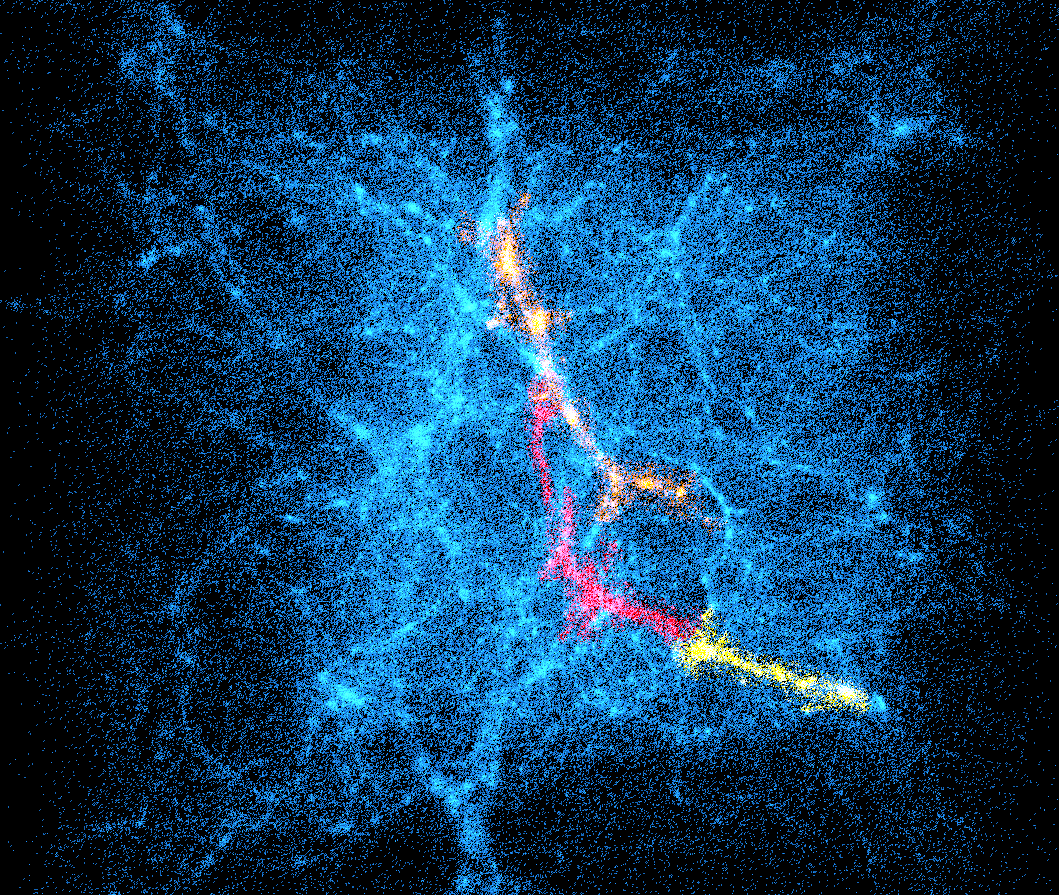
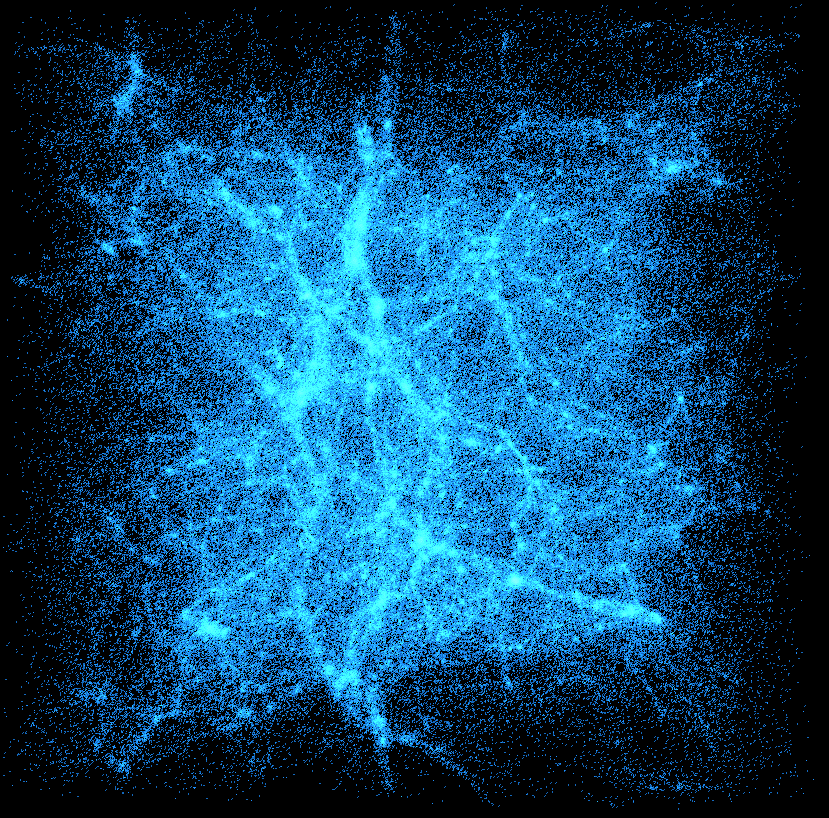
add readme

diff --git a/Assets/my/script/controller/RunTimeController.cs b/Assets/my/script/controller/RunTimeController.cs
@@ -8,29 +8,11 @@ public class RunTimeController : MonoBehaviour
 {
 
         private void Start()
-    {   gridNum=0;
+    {   
         SwitchDatasetFromFile(dataset.ToString());
     }
 
 
-  private int gridNum;
-  [SerializeField, SetProperty("GRIDNUM")]
-    private GRIDNum gRIDNum;
-    public GRIDNum GRIDNUM
-        {
-            get { return gRIDNum; }
-            set {     if (gRIDNum == GRIDNum.none)
-            gridNum = 0;    
-                if (gRIDNum == GRIDNum.grid100)
-            gridNum = 99;
-        if (gRIDNum == GRIDNum.grid64)
-            gridNum = 64;
-        if (gRIDNum == GRIDNum.grid200)
-            gridNum = 200;
-
-       SwitchDatasetFromFile(dataset.ToString());
-            }
-        }
 
 
   [SerializeField, SetProperty("DATASET")]
@@ -92,11 +74,7 @@ public class RunTimeController : MonoBehaviour
             DataMemory.LoadFlagsToStack(LoadFlagNames);
         }
         
-        if(gRIDNum!=0)
-        {
-        DataMemory.CreateDensityField(gridNum);
-        GPUKDECsHelper.StartGpuKDE(DataMemory.allParticle, DataMemory.densityField, kde_shader);
-        }
+
        
 
         RenderDataRunTime.GenerateMesh();

diff --git a/README.md b/README.md
@@ -1,2 +1,10 @@
-# PointCloud-Visualization-Tool
+PointCloud-Visualization-Tool
+This is a repository for point cloud visualization built on [Unity3D](https://unity3d.com/get-unity/download "Unity download").
+The point cloud data are in format .bin (xyz coordinates in binary format).
+Any pull requests and issues are welcome.
 ![Image](https://github.com/LixiangZhao98/PointCloud-Visualization-Tool/blob/master/Assets/pic/Filament.png "Image")
+# How to use
+* Clone the repo with git lfs installed and open the project using Unity (versions over 2020.3.38f1 have been tested).
+* `Assets/my/Scenes/demo.unity` is the main scene.
+
+
